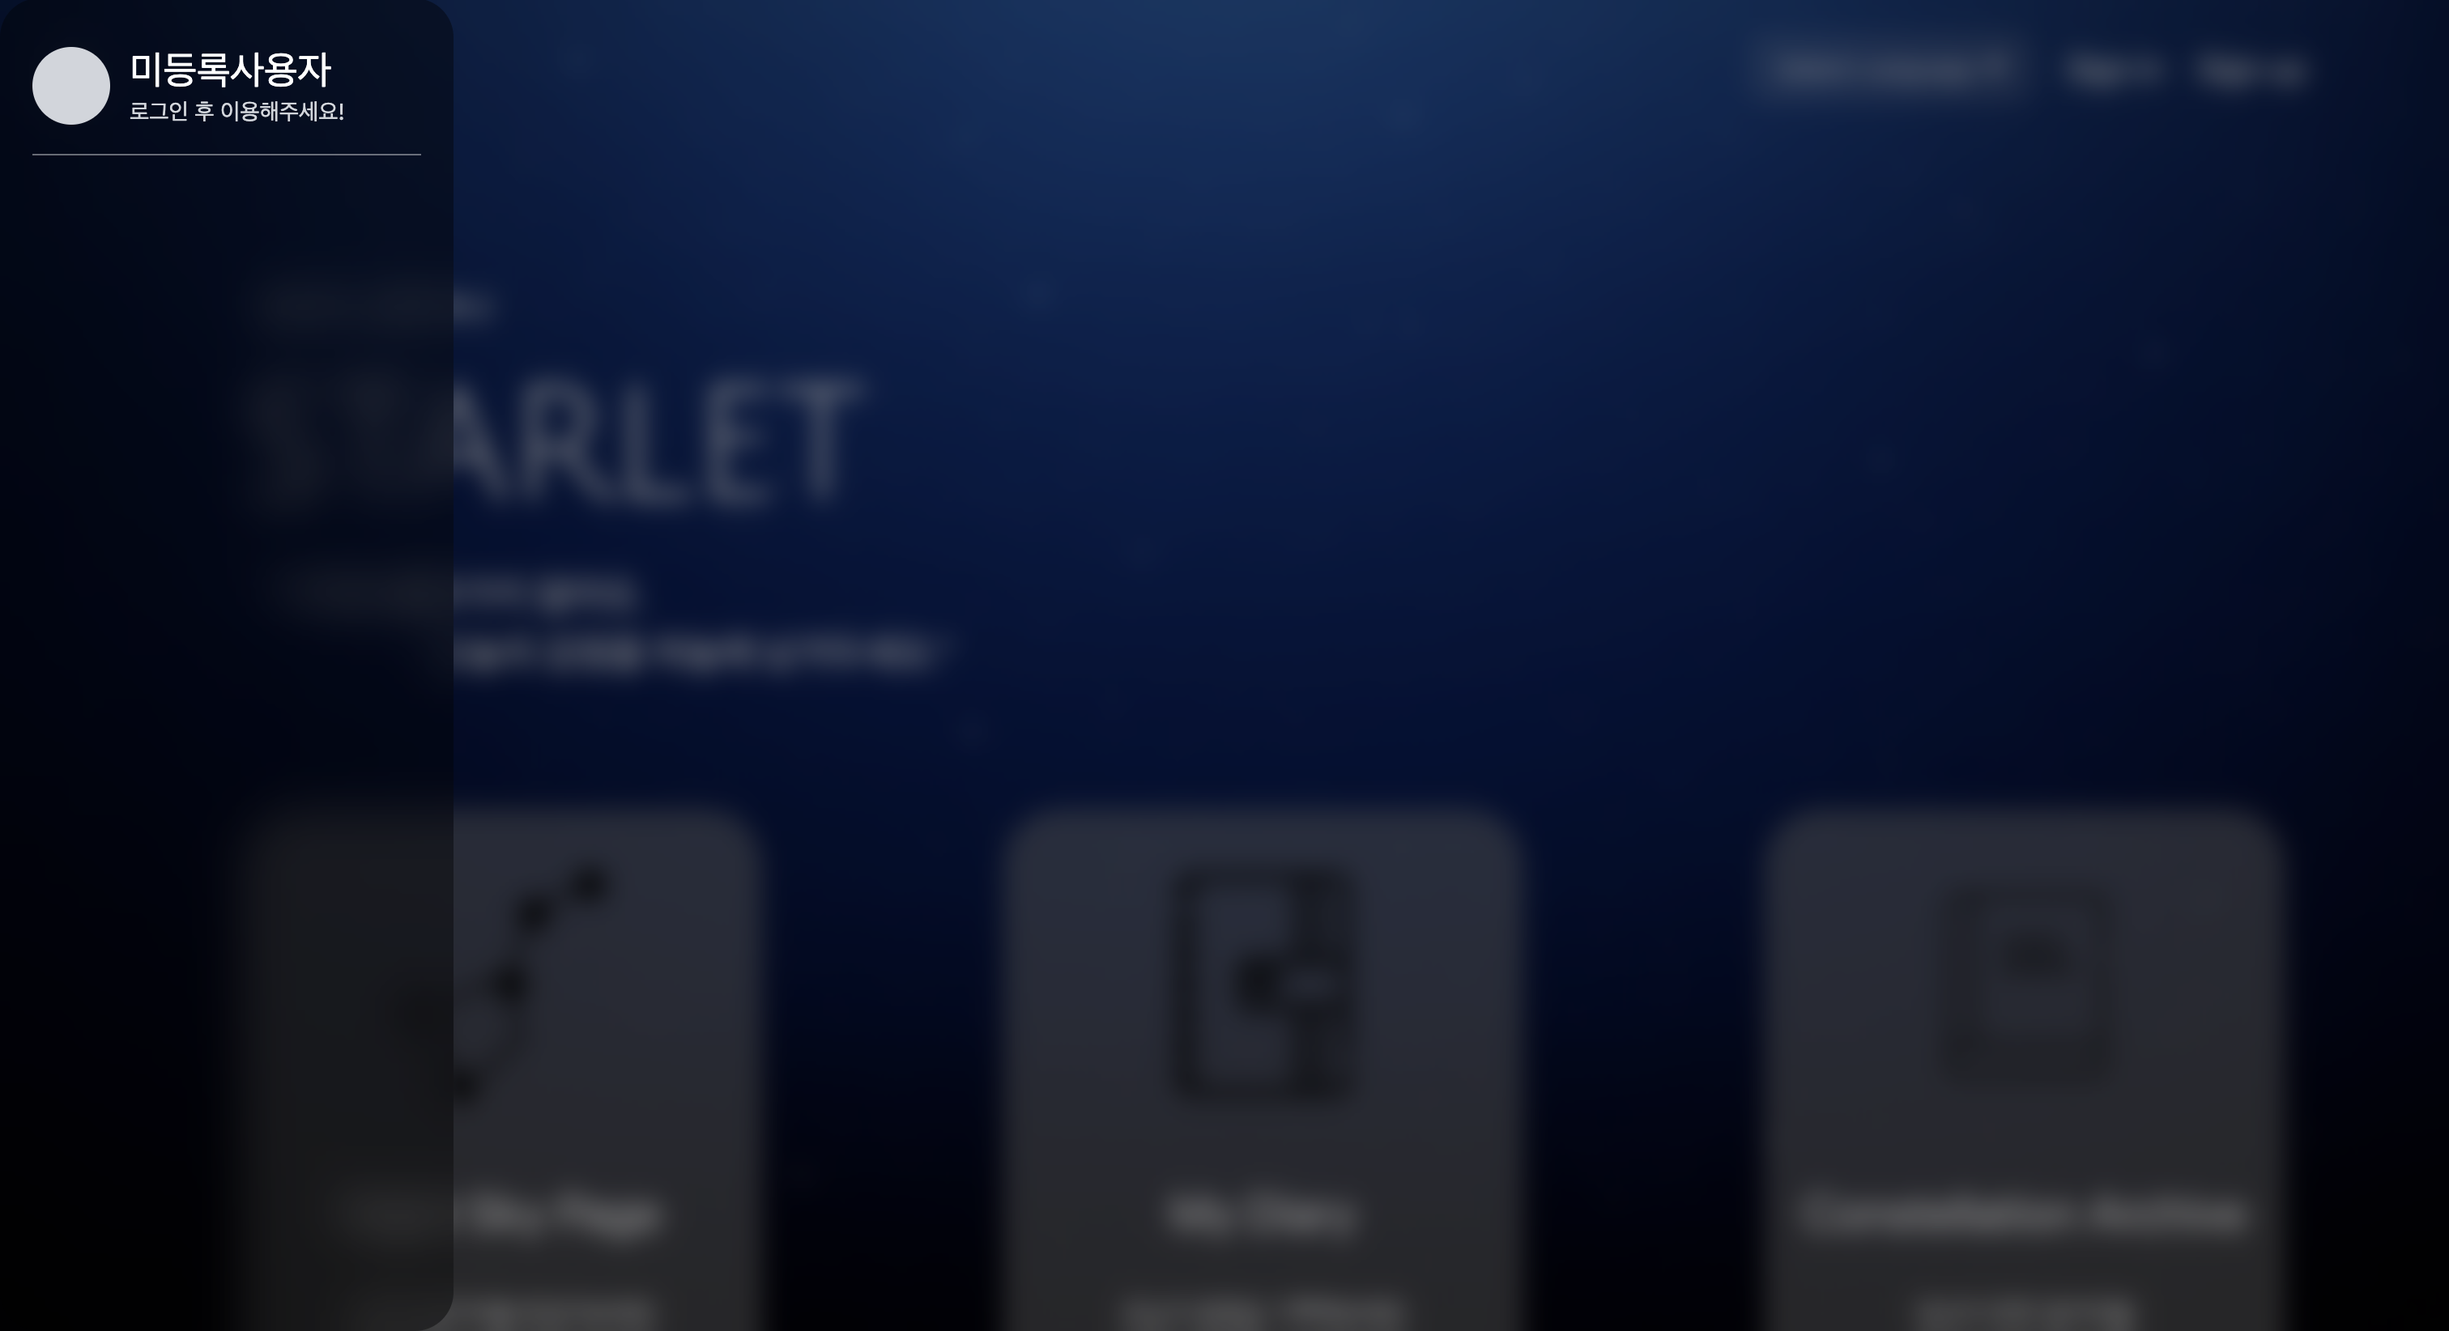
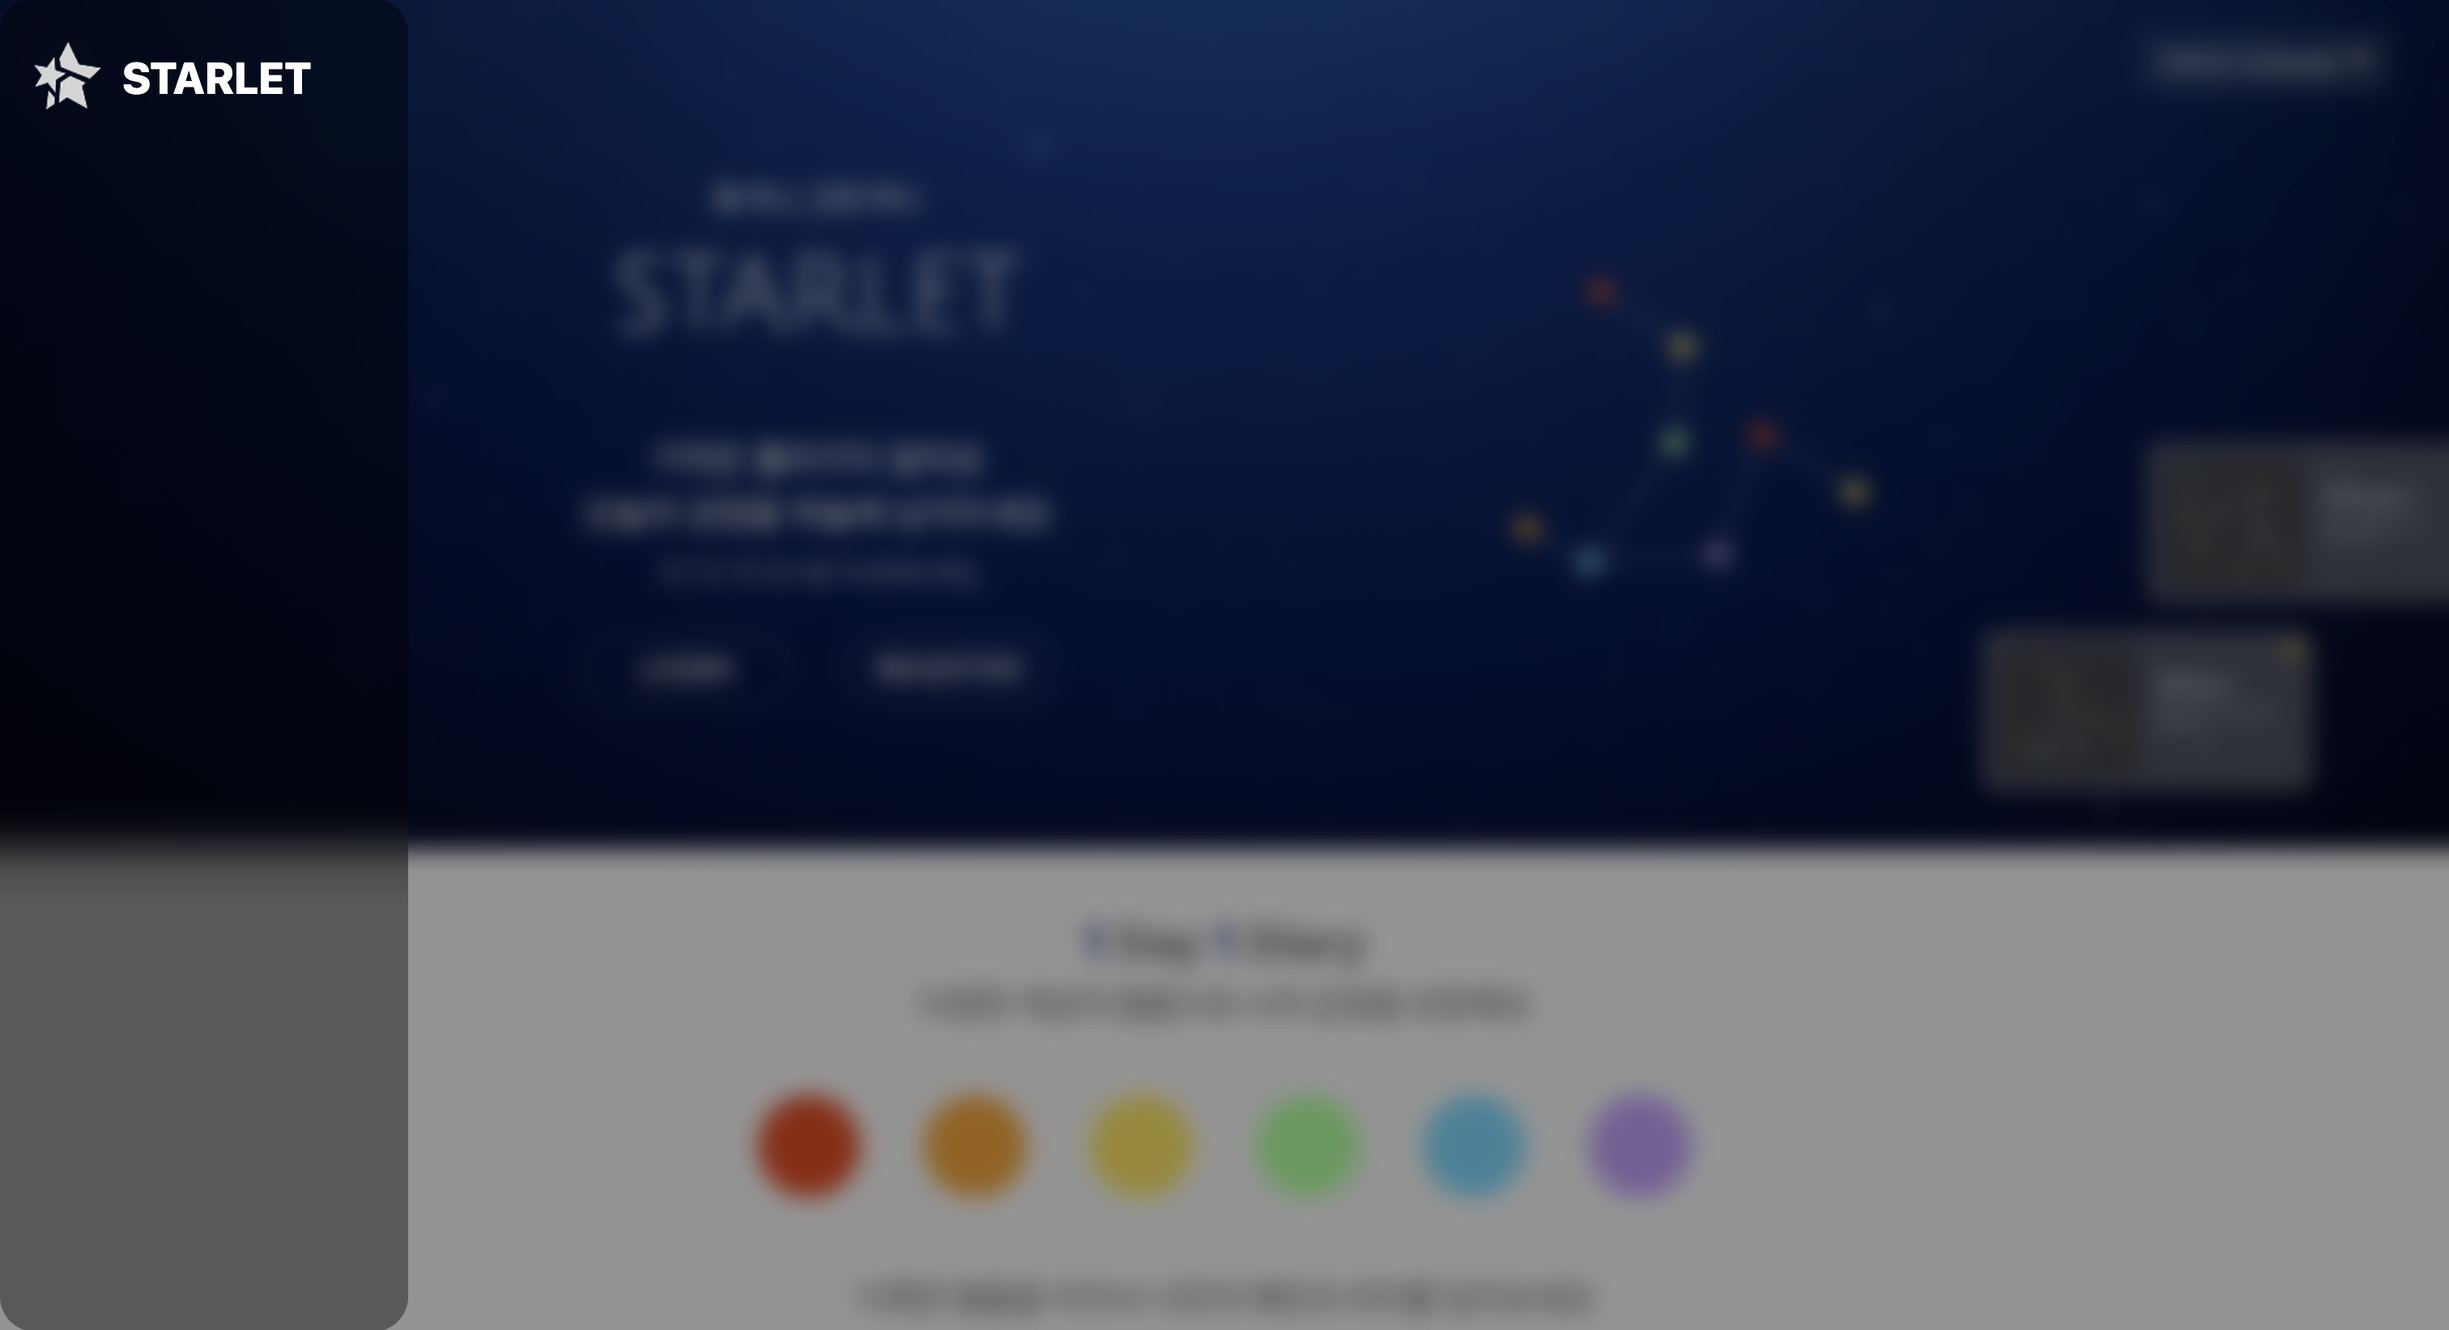
edit : 문서 수정

diff --git a/SDS/6_User_interface_prototype.md b/SDS/6_User_interface_prototype.md
@@ -38,20 +38,68 @@
 ## 6.4. 홈화면
 
 <p align="center">
-  <img src="./User%20interface%20prototype%20image/image-home-before.png" width="100%" alt="홈화면(로그인 전)">
+  <img src="./User%20interface%20prototype%20image/image-home-before-eng.png" width="100%" alt="홈화면(로그인 전) - 영어">
   <br>
-  <sub>홈화면(로그인 전)</sub>
+  <sub>홈 화면(로그인 전) - 영어</sub>
 </p>
 
 <p align="center">
-  <img src="./User%20interface%20prototype%20image/image-home-after.png" width="100%" alt="홈화면(로그인 후)">
+  <img src="./User%20interface%20prototype%20image/image-home-before-kor.png" width="100%" alt="홈화면(로그인 후) - 한국어">
   <br>
-  <sub>홈화면(로그인 후)</sub>
+  <sub>홈 화면(로그인 전) - 한국어</sub>
 </p>
 
-> 위 그림은 로그인 전, 후의 홈화면이다.  
-> 로그인 전에는 상단 오른쪽에 로그인/회원가입 버튼이 있고, 하단의 3가지 버튼을 클릭하면 로그인 페이지로 자동 이동한다.  
-> 로그인 후에는 하단의 3가지 버튼이 해당 페이지로 연결된다.
+<p align="center">
+  <img src="./User%20interface%20prototype%20image/image-home-after-eng.png" width="100%" alt="홈화면(로그인 후) - 영어">
+  <br>
+  <sub>홈 화면(로그인 후) - 영어</sub>
+</p>
+
+<p align="center">
+  <img src="./User%20interface%20prototype%20image/image-home-after-kor.png" width="100%" alt="홈화면(로그인 후) - 한국어">
+  <br>
+  <sub>홈 화면(로그인 후) - 한국어</sub>
+</p>
+
+<p align="center">
+  <img src="./User%20interface%20prototype%20image/image-home1-eng.png" width="100%" alt="홈화면(공통) - 영어">
+  <br>
+  <sub>홈 화면(공통) - 영어</sub>
+</p>
+
+<p align="center">
+  <img src="./User%20interface%20prototype%20image/image-home2-eng.png" width="100%" alt="홈화면(공통) - 영어">
+  <br>
+  <sub>홈 화면(공통) - 영어</sub>
+</p>
+
+<p align="center">
+  <img src="./User%20interface%20prototype%20image/image-home3-eng.png" width="100%" alt="홈화면(공통) - 영어">
+  <br>
+  <sub>홈 화면(공통) - 영어</sub>
+</p>
+
+<p align="center">
+  <img src="./User%20interface%20prototype%20image/image-home1-kor.png" width="100%" alt="홈화면(공통) - 한국어">
+  <br>
+  <sub>홈 화면(공통) - 한국어</sub>
+</p>
+
+<p align="center">
+  <img src="./User%20interface%20prototype%20image/image-home2-kor.png" width="100%" alt="홈화면(공통) - 한국어">
+  <br>
+  <sub>홈 화면(공통) - 한국어</sub>
+</p>
+
+<p align="center">
+  <img src="./User%20interface%20prototype%20image/image-home3-kor.png" width="100%" alt="홈화면(공통) - 한국어">
+  <br>
+  <sub>홈 화면(공통) - 한국어</sub>
+</p>
+
+> 위 그림은 로그인 전, 후의 영어/한국어 언어 변환 화면이다.  
+> 로그인 전에는 로그인과 회원가입을 할 수 있는 버튼이 있다.
+> 로그인 후에는 홈 화면의 4가지 버튼을 통해 해당 페이지로 이동할 수 있다.
 > 상단의 언어 변경 탭을 통해 한국어/영어로 전환이 가능하다.
 
 ---
@@ -65,14 +113,20 @@
 </p>
 
 <p align="center">
-  <img src="./User%20interface%20prototype%20image/image-sidebar-after.png" width="100%" alt="사이드바(로그인 후)">
+  <img src="./User%20interface%20prototype%20image/image-sidebar-after-eng.png" width="100%" alt="사이드바(로그인 후) - 영어">
   <br>
-  <sub>사이드바(로그인 후)</sub>
+  <sub>사이드바(로그인 후) - 영어</sub>
+</p>
+
+<p align="center">
+  <img src="./User%20interface%20prototype%20image/image-sidebar-after-kor.png" width="100%" alt="사이드바(로그인 후) - 한국어">
+  <br>
+  <sub>사이드바(로그인 후) - 한국어</sub>
 </p>
 
 > 위 그림은 사이드바 화면이다.  
-> 로그인 전에는 미등록 사용자임을 나타낸다.
-> 로그인 후에는 각 화면으로 이동하거나 로그아웃할 수 있다.
+> 로그인 전에는 사이드바에 아무것도 나타나지 않는다.
+> 로그인 후에는 사이드바를 통해 각 화면으로 이동하거나 로그아웃할 수 있다.
 
 ---
 
@@ -83,8 +137,7 @@
 ![그림: 달력](./User%20interface%20prototype%20image/image-calendar.png)
 
 > 위 그림은 달력 화면이다.  
-> ‘<’, ‘>’ 버튼으로 전월/다음 달로 이동하며 작성된 일기를 확인할 수 있다.  
-> ‘< Back’ 버튼을 누르면 이전 페이지로 돌아간다.
+> ‘<’, ‘>’ 버튼으로 전월/다음 달로 이동하며 작성된 일기를 확인할 수 있다.
 
 ---
 
@@ -108,7 +161,7 @@
 
 ### 6.6.4 일기 작성 완료 모달
 
-![그림: 일기 작성 완료 모달](./User%20interface%20prototype%20image/image-diary-finish.png)
+![그림: 일기 작성 완료 모달](./User%20interface%20prototype%20image/image-diary-confirm-modal.png)
 
 > 일기 작성 후 ‘완료’ 버튼을 누르면 나타난다.  
 > ‘예’를 누르면 밤하늘 화면으로 이동, ‘아니요’를 누르면 달력으로 돌아간다.
@@ -124,6 +177,14 @@
 
 ---
 
+### 한 달 일기 요약
+
+![그림: 한 달 일기 요약](./User%20interface%20prototype%20image/image-diary-summary.png)
+
+> 오른쪽 상단의 아이콘을 누르면 해당 달의 일기 요약을 해서 보여준다.
+
+---
+
 ## 6.7. 밤하늘 화면
 
 ### 6.7.1 밤하늘 화면(별자리 생성 전)
@@ -136,14 +197,36 @@
 
 ---
 
+<<<<<<< HEAD:SDS/6_User_interface_prototype.md
 ### 6.7.2 별자리 생성 모달
+=======
+### 밤하늘 모달 1
 
-![그림: 별자리 생성 모달](./User%20interface%20prototype%20image/image-constellation-modal.png)
+![그림: 밤하늘 모달 1)](./User%20interface%20prototype%20image/image-starsky-apply-modal.png)
+
+> 밤하늘 페이지에서 별을 선택할 때 7~14개의 별을 선택하지 않으면 해당 모달이 나타난다.
+
+---
+
+### 별자리 생성 모달
+>>>>>>> bd18971 (edit : 문서 수정):SDS/User interface prototype.md
+
+![그림: 별자리 선 잇기 모달](./User%20interface%20prototype%20image/image-constellaion-line-modal.png)
 
 > 밤하늘에서 최소 7개 이상 최대 14개 이하의 별을 선택해야 별자리 생성 모달이 열린다.  
-> 선택한 별들의 위치 그대로 왼쪽에 나타나게 되며, 별을 이동하거나 선을 이어 별자리를 만들 수 있다.  
-> 오른쪽 입력란에서 별자리 이름과 간단한 설명을 작성 후 ‘설정’ 버튼을 누르면 생성이 완료된다.  
-> 상단의 '<-' 버튼으로 밤하늘 화면으로 돌아갈 수 있다.
+> 선택한 별들의 위치 그대로 화면에 나타나게 되며, 별을 이동하거나 선을 이어 별자리를 만들 수 있다.  
+> 마지막 선 지우기 버튼과 전체 삭제 버튼을 통해 선 이은 것을 삭제할 수 있다.
+> 바탕 화면을 누르면 모달창이 닫힌다.
+
+---
+
+![그림: 별자리 이름 및 설명 생성 모달](./User%20interface%20prototype%20image/image-constellation-modal.png)
+
+> 오른쪽 입력란에서 별자리 이름과 간단한 설명을 작성 후 ‘완료’ 버튼을 누르면 생성이 완료된다.  
+> 별자리 이름은 10자 이내, 설명은 30자 이내로 작성하도록 제한한다.
+> 상단 좌측의 '<' 버튼으로 별자리 선 잇기 모달로 돌아갈 수 있다.
+> ? 튤팁을 호버하면 AI 추천 기능에 대한 설명을 볼 수 있다.
+> 추천받기 버튼을 누르면 입력칸에 이름과 설명을 추천해서 보여준다.
 
 ---
 
@@ -151,8 +234,8 @@
 
 ![그림: 밤하늘 화면(별자리 생성 후)](./User%20interface%20prototype%20image/image-starsky-after.png)
 
-> 생성된 별자리의 별과 간선이 그대로 나타난다.  
-> 별자리 선 위에 마우스를 올리면 별자리 이름과 생성일자가 라벨로 표시된다.
+> 생성된 별자리의 모양 그대로 정해진 일정한 크기로 나타난다..  
+> 별자리 간선 또는 별 호버 시 별자리 이름과 생성일자가 적혀있는 라벨이 나타난다.
 
 ---
 
@@ -160,10 +243,18 @@
 
 ![그림: 별자리 선택(드래그 및 크기 조절)](./User%20interface%20prototype%20image/image-constellation-resize.png)
 
-> 별자리 선택 시 별자리 이름, 생성일자 라벨과 크기 조절 탭이 나타난다.  
-> 조절은 0.05 단위로 가능하며 ‘적용’을 버튼을 누르면 저장된다.
-> 드래그 시에도 드래그 후 '적용'을 버튼을 누르면 저장된다.
-> 드래그 이동 후 또는 크기 조절 후 ‘적용’을 누르지 않고 바탕화면 클릭 시 원래 위치로 돌아간다.
+> 별자리 선택 시 별자리 이름, 생성일자 라벨과 크기 조절 슬라이드이 나타난다.  
+> 슬라이드 위의 원을 위로 올리면 별자리 크기를 키우고 내리면 크기를 줄이며 슬라이드 하단의 체크 아이콘을 누르면 적용된다.
+> 드래그 시에도 드래그 후 체크 아이콘을 누르면 저장된다.
+> 드래그 이동 후 또는 크기 조절 후 체크 아이콘을 누르지 않고 바탕화면 클릭 시 원래 위치로 돌아간다.
+
+---
+
+### 밤하늘 모달 2
+
+![그림: 밤하늘 모달 2)](./User%20interface%20prototype%20image/image-constellation-confirm-modal.png)
+
+> 별자리 이동 및 크기 조절 후 체크 아이콘을 누르면 모달이 나타난다.
 
 ---
 
@@ -173,7 +264,8 @@
 
 ![그림: 별자리 아카이브](./User%20interface%20prototype%20image/image-archive.png)
 
-> 지금까지 생성된 별자리 목록이 나타나며 해당 목록에 따라 별자리 생성일자, 이름, 설명이 표시된다.
+> 지금까지 생성된 별자리 목록이 나타나며 해당 별자리에 따라 별자리 생성일자, 이름, 설명이 표시된다.
+> 한 화면에 4개의 별자리를 보여준다.
 
 ---
 
@@ -181,10 +273,18 @@
 
 ![그림: 별자리 아카이브 상세](./User%20interface%20prototype%20image/image-archive-detail.png)
 
-> 원하는 목록을 클릭하면 상세 페이지로 이동한다.  
+> 보고자 하는 별자리를 클릭하면 상세 페이지로 이동한다.  
 > 생성일자, 이름, 설명, 감정 구성을 기본적으로 확인할 수 있다.  
-> ‘수정’ 버튼을 누르면 이름/설명을 변경할 수 있다.  
-> 내가 남긴 기록보기에서 기록을 클릭하면 해당 일기가 생성된 달의 달력으로 이동한다.
+> 내가 남긴 기록보기에서 생성 날짜를 클릭하면 해당 일기가 해당 날짜의 일기를 보여주는 페이지로 이동한다.
+> 별자리 아카이브 상세 페이지에서 연필 아이콘을 누르면 수정 페이지로 이동한다.
+
+---
+
+### 별자리 아카이브 수정
+
+![그림: 별자리 아카이브 수정](./User%20interface%20prototype%20image/image-archive-edit.png)
+
+> 별자리 이름과 설명을 수정할 수 있고 '완료'버튼을 누르면 저장된다.
 
 ---
 
@@ -193,7 +293,7 @@
 ![그림: 대표 별자리 설정](./User%20interface%20prototype%20image/image-archive-represent.png)
 
 > 별자리 아카이브의 상단 우측 별 모양을 클릭하면 대표 별자리 설정 모달이 열린다.  
-> ‘대표 별자리로 설정’ 버튼을 누르면 대표 별자리로 지정된다.
+> ‘예’ 버튼을 누르면 대표 별자리로 지정된다.
 
 ---
 
@@ -205,7 +305,7 @@
 
 > 대표 별자리가 상단 우측에 나타난다.  
 > 생성한 별의 수에 따라 레벨이 오르며 호칭을 획득할 수 있다.  
-> 하단 그래프에서 감정별 일기 수와 별자리 수를 한눈에 확인 가능하다.
+> 하단 그래프에서 감정별 일기 수와 생성된 별자리 수를 한눈에 확인 가능하다.
 
 ---
 
@@ -216,3 +316,53 @@
 > ‘프로필 편집’ 버튼을 누르면 프로필 수정 모달이 나타난다.  
 > 프로필 이미지와 닉네임을 변경할 수 있고, 닉네임은 중복 확인을 통해 검증된다.  
 > ‘완료’ 버튼을 누르면 수정이 저장된다.
+
+## 6.9. 친구
+
+### 친구 리스트
+
+![그림: 친구 리스트](./User%20interface%20prototype%20image/image-friendlist.png)
+
+> 나와 친구로 맺어진 친구 리스트가 하단에 나타난다.
+> 친구 리스트의 우측에 있는 쓰레기통 아이콘을 누르면 친구가 삭제된다.
+> '친구 추가'버튼을 누르면 친구 검색 모달이 열린다.
+> '친구 요청 확인하기'버튼을 누르면 친구 요청 모달이 열린다.
+> 기록된 별과 생성한 별자리 수를 확인할 수 있다.
+
+---
+
+### 친구 검색
+
+![그림: 친구 검색(신청)](./User%20interface%20prototype%20image/image-friend-search.png)
+
+> 이름을 입력 후 돋보기 아이콘을 누르면 하단에 해당 유저가 나타난다.
+> 친구 신청을 누르면 친구 신청이 완료된다.
+
+---
+
+![그림: 친구 검색(신청 완료)](./User%20interface%20prototype%20image/image-friend-search.png)
+
+> 친구 신청이 완료되어 '친구 신청'버튼이 신청 완료로 바뀌며 버튼이 비활성화된다.
+
+---
+
+![그림: 친구 검색(이미 친구입니다)](./User%20interface%20prototype%20image/image-friend-search.png)
+
+> 이미 친구인 친구의 이름을 입력 후 돋보기 버튼을 누르면 "이미 친구입니다"라는 문구가 나타나며 버튼이 비활성화된다.
+
+---
+
+### 친구 요청
+
+![그림: 친구 요청](./User%20interface%20prototype%20image/image-friend-request.png)
+
+> 친구 요청이 온 유저들의 리스트를 보여주며 친구 요청을 3일 이내로 받지 않으면 사라진다.
+> '수락'버튼을 누르면 친구가 맺어지며 '거절'버튼을 누르면 친구 요청이 거부된다.
+
+---
+
+### 친구 추가 완료
+
+![그림: 친구 추가 완료](./User%20interface%20prototype%20image/image-friendlist-after.png)
+
+> 친구가 맺어진 후 친구 리스트 목록을 나타낸다.
